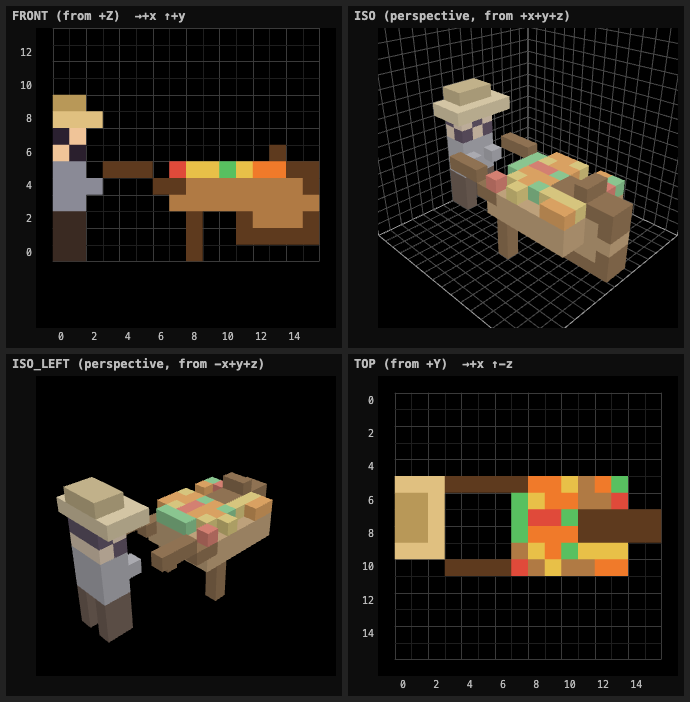
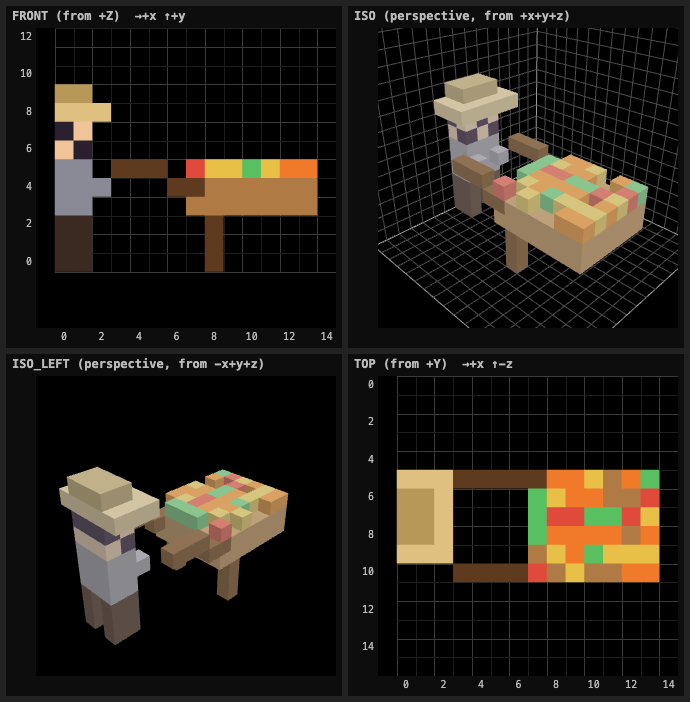
Voxel city: cart, rickshaw and barrow wheels are separate instances that roll with distance travelled

diff --git a/voxel/src/main.js b/voxel/src/main.js
@@ -6,6 +6,7 @@ import * as W from "./world.js";
 import { loadModel, meshVoxels, gridFromVoxels } from "./voxels.js";
 import { personVoxels, animalVoxels, DOG_COLORS, CAT_LOOKS, PIGEON_COLORS, DUCK_LOOKS } from "./people.js";
 import { createSim } from "./sim.js";
+import { WHEELS, wheelModel } from "../models/recipes/props.js";
 
 const qs = new URLSearchParams(location.search);
 if (qs.get("seed")) W.setSeed(+qs.get("seed"));
@@ -160,6 +161,29 @@ async function buildActors() {
     scene.add(im); actorMeshes.set(k, im); if (list[0].pick) pickables.push(im);
   }));
 }
+// Vehicle wheels: one InstancedMesh per wheeled model (WHEELS in props.js), spun by distance travelled / radius.
+const wheelSets = [];
+function buildVehicleWheels() {
+  for (const [model, spec] of Object.entries(WHEELS)) {
+    const carts = sim.ents.filter((e) => e.look?.model === model); if (!carts.length) continue;
+    const g = wheelModel(spec.r), grid = gridFromVoxels([...g.v].map(([k, c]) => [k % g.size, Math.floor(k / (g.size * g.size)), Math.floor(k / g.size) % g.size, c]), g.size);
+    const im = new THREE.InstancedMesh(meshVoxels(grid, { pivot: "center" }), vmat, carts.length * spec.at.length);
+    im.castShadow = true; im.receiveShadow = !LOW; im.frustumCulled = false; im.instanceMatrix.setUsage(THREE.DynamicDrawUsage);
+    const offs = spec.at.map(([x, y, z]) => new THREE.Vector3(x + 0.5 - spec.grid / 2, y + 0.5, z + 0.5 - spec.grid / 2));
+    scene.add(im); wheelSets.push({ im, carts, offs, r: spec.r });
+  }
+}
+const WM = new THREE.Matrix4(), WR = new THREE.Matrix4();
+function updateVehicleWheels() {
+  for (const { im, carts, offs, r } of wheelSets) {
+    carts.forEach((e, i) => {
+      e._mesh.getMatrixAt(e._slot, M4);
+      WR.makeRotationZ(-(e.roll ?? 0) / r);   // forward is +x in model space, so rolling turns the wheel about z
+      offs.forEach((o, k) => im.setMatrixAt(i * offs.length + k, WM.copy(M4).multiply(WR.setPosition(o))));
+    });
+    im.instanceMatrix.needsUpdate = true;
+  }
+}
 let wheel = null;
 async function buildWheel() { wheel = new THREE.Mesh(await modelGeometry("waterwheel", null, "waterwheel"), vmat); wheel.castShadow = true; wheel.position.set(L.WHEEL.x, 10, W.RIVER.zc(L.WHEEL.x) - 3); scene.add(wheel); }
 
@@ -170,6 +194,7 @@ function updateActors(dt) {
     if (e.hidden) { place(e, e.x, -50, e.z, 0, 0); continue; }
     const moved = Math.hypot(e.x - (e.px ?? e.x), e.z - (e.pz ?? e.z)); e.px = e.x; e.pz = e.z;
     e.hp += moved * (e.kind === "vehicle" ? 0.5 : 0.75);
+    if (e.kind === "vehicle") e.roll = (e.roll ?? 0) + moved / (e.scale ?? 1);
     const hop = e.mv ? Math.abs(Math.sin(e.hp)) * e.hop * Math.min(1, 0.35 + (e.spd ?? e.speed) / e.speed * 0.65) : 0;   // slower walkers bob less
     place(e, e.x, (e.y || 0) + (e.brain === "field" ? W.groundH(e.x, e.z) : 0) + hop, e.z, e.kind === "vehicle" ? e.yaw - Math.PI / 2 : e.yaw, e.scale ?? 1);
   }
@@ -177,6 +202,7 @@ function updateActors(dt) {
   for (const b of sim.boats) place(b, b.x, -0.6 + Math.sin(sim.time * 1.5 + b.phase) * 0.25, b.z, b.yaw, 1);
   for (const d of sim.ducks) place(d, d.x, -0.2 + Math.sin(sim.time * 2 + d.phase) * 0.15, d.z, d.yaw, d.k ? 0.7 : 1);
   for (const im of actorMeshes.values()) im.instanceMatrix.needsUpdate = true;
+  updateVehicleWheels();
   if (wheel) wheel.rotation.z = -sim.time * 0.8;
 }
 
@@ -228,7 +254,7 @@ city.stats = () => ({ ...sim.stats(), simTime: sim.time, drawCalls: renderer.inf
   try {
     setStatus("BUILDING THE CITY...");
     tufts(); crops(); bushes();
-    await Promise.all([buildStatics(), buildActors(), buildWheel()]);
+    await Promise.all([buildStatics(), buildActors(), buildWheel()]); buildVehicleWheels();
     setView(qs.get("view") ?? "town");
     if (qs.get("t")) city.advance(+qs.get("t"));
     document.getElementById("loading")?.remove();

diff --git a/voxel/models/recipes/props.js b/voxel/models/recipes/props.js
@@ -53,8 +53,18 @@ export function target() { const g = new G(12), c = 6; g.line(c - 2, 0, c, c, 6,
   for (const [r, col] of [[5, M.hay], [4, M.tomato], [3, M.cream], [2, M.tomato], [1, M.cream]]) g.disc(c, 7, c + 1, r, col, "z"); return g; }
 
 // ---- vehicles (forward +X)
+// Wheels of wheeled vehicles are NOT baked into the models: the game draws them as separate instances and spins
+// them as the vehicle moves. Each entry: model grid size, wheel radius, wheel centre cells [x, y, z] (wheel in the x-y plane).
+export const WHEELS = {
+  rickshaw: { grid: 24, r: 5, at: [[8, 5, 6], [8, 5, 17]] },
+  oxcart: { grid: 32, r: 5, at: [[8, 5, 8], [8, 5, 19]] },
+  barrow: { grid: 16, r: 2.5, at: [[13, 3, 7], [13, 3, 8]] },
+};
+/** One wheel centred in an odd-sized grid (so pivot "center" puts the hub at the origin). */
+export function wheelModel(r) { const S = 2 * Math.ceil(r) + 3, c = (S - 1) / 2, g = new G(S); wheel(g, c, c, c, r); return g; }
+
 export function rickshaw() { const g = new G(24);
-  wheel(g, 8, 5, 6, 5); wheel(g, 8, 5, 17, 5); g.line(8, 5, 6, 8, 5, 17, M.woodD);
+  g.line(8, 5, 7, 8, 5, 16, M.woodD); // axle (wheels: WHEELS.rickshaw)
   g.box(5, 6, 7, 12, 8, 16, (x, y) => (y === 8 ? CL.d : CLOTH)); g.box(5, 9, 7, 5, 12, 16, CLOTH);
   for (let z = 7; z <= 16; z++) { g.set(5, 13, z, "#3a3440"); g.set(6, 14, z, "#3a3440"); g.set(7, 14, z, "#3a3440"); g.set(8, 13, z, "#4a4450"); }
   seated(g, 8, 9, 10, { top: "#d04a6a" });
@@ -62,7 +72,7 @@ export function rickshaw() { const g = new G(24);
   figure(g, 17, 0, 10, { top: "#f0e8d0", bottom: "#3a6ad8", hat: "straw" }); return g; }
 export function oxcart() { const g = new G(32), rnd = rng(8);
   g.box(2, 4, 9, 15, 4, 18, M.wood); for (const z of [9, 18]) g.box(2, 5, z, 15, 6, z, M.woodL); g.box(2, 5, 9, 2, 6, 18, M.woodL);
-  wheel(g, 8, 5, 8, 5); wheel(g, 8, 5, 19, 5); g.line(8, 5, 8, 8, 5, 19, M.woodD);
+  g.line(8, 5, 9, 8, 5, 18, M.woodD); // axle (wheels: WHEELS.oxcart)
   g.ball(8, 6, 13.5, 6, 5, 4, (x, y) => (rnd() < 0.2 ? M.hayD : y > 9 ? M.hayL : M.hay));
   seated(g, 14, 5, 12, { top: "#8a5a32", hat: "straw" });
   g.line(15, 5, 13, 20, 5, 13, M.woodD);
@@ -78,7 +88,7 @@ export function sedan() { const g = new G(24);
   figure(g, 1, 0, 10, { top: "#c8342a", bottom: "#c8342a", hat: "cap" }); figure(g, 19, 0, 10, { top: "#c8342a", bottom: "#c8342a", hat: "cap" }); return g; }
 export function barrow() { const g = new G(16), rnd = rng(4);
   g.box(7, 3, 5, 13, 4, 10, M.woodL); for (let x = 7; x <= 13; x++) for (let z = 5; z <= 10; z++) if (rnd() < 0.8) g.set(x, 5, z, [M.veg, M.orange, M.tomato, M.hay][Math.floor(rnd() * 4)]);
-  wheel(g, 13, 3, 7, 2.5); wheel(g, 13, 3, 8, 2.5); g.line(7, 4, 5, 3, 5, 5, M.woodD); g.line(7, 4, 10, 3, 5, 10, M.woodD); g.box(8, 0, 5, 8, 2, 5, M.woodD); g.box(8, 0, 10, 8, 2, 10, M.woodD);
+  g.line(7, 4, 5, 3, 5, 5, M.woodD); g.line(7, 4, 10, 3, 5, 10, M.woodD); g.box(8, 0, 5, 8, 2, 5, M.woodD); g.box(8, 0, 10, 8, 2, 10, M.woodD);
   figure(g, 0, 0, 6, { top: "#8a8a96", bottom: "#3a2a22", hat: "straw" }); return g; }
 
 // ---- river
